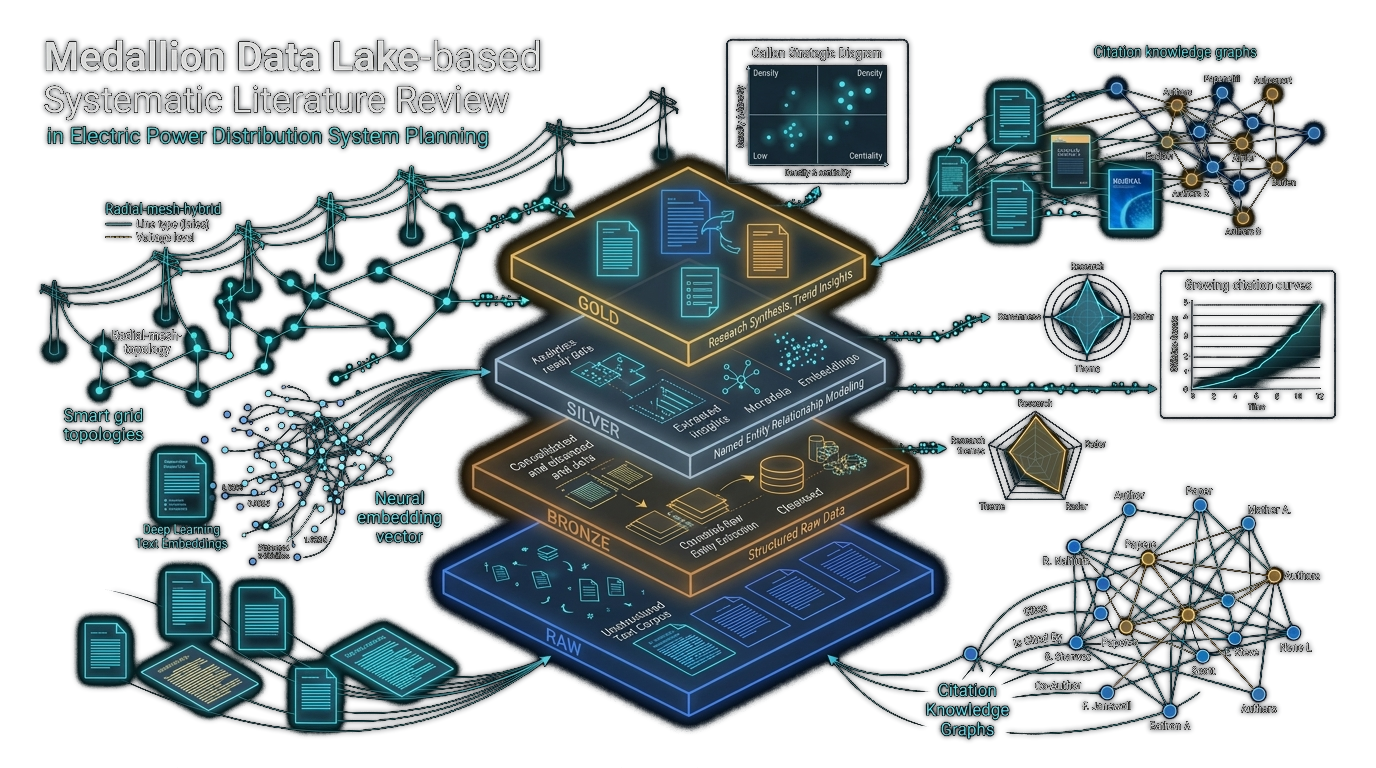
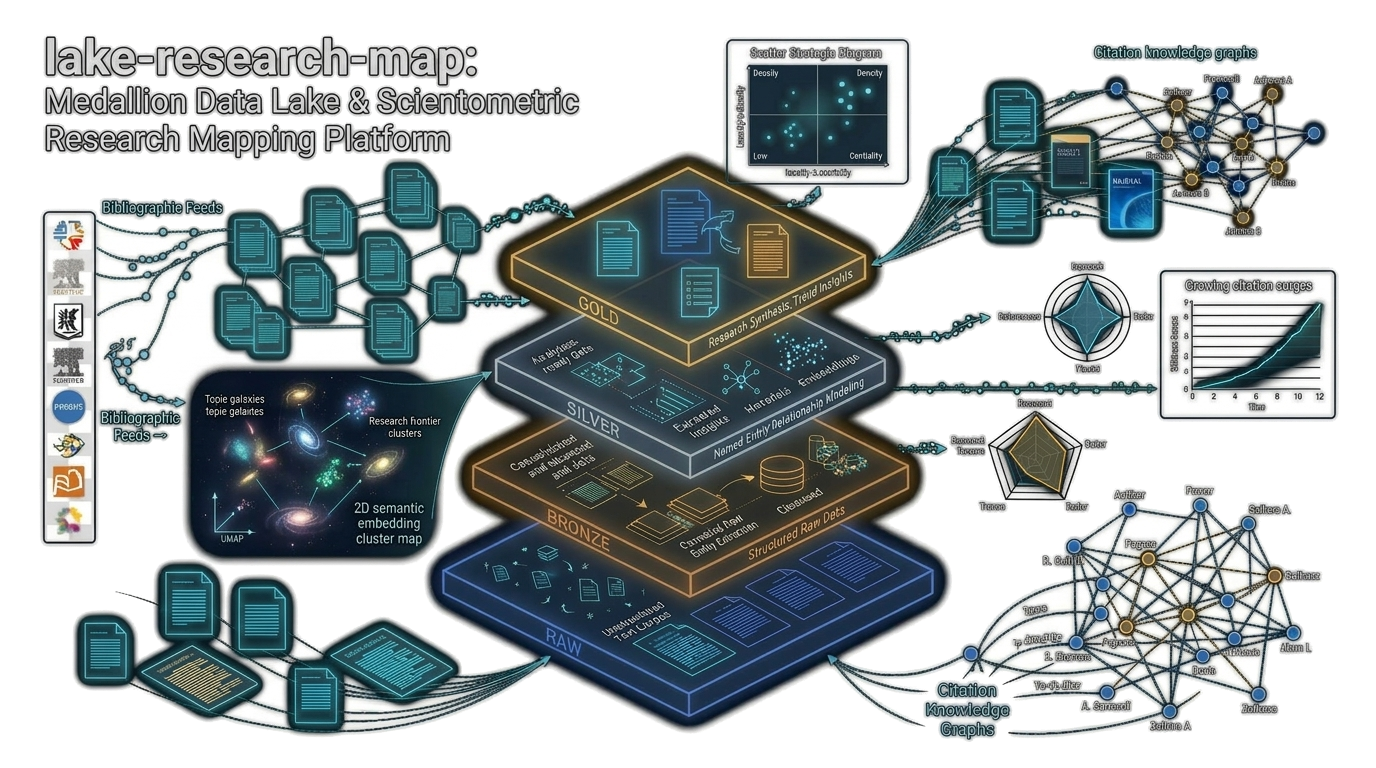
docs(assets): redesign lake_research_map_hero.png for generalized research intelligence

diff --git a/README.md b/README.md
@@ -9,7 +9,7 @@
 [![Code Style: Ruff](https://img.shields.io/endpoint?url=https://raw.githubusercontent.com/astral-sh/ruff/main/assets/badge/v2.json)](https://github.com/astral-sh/ruff)
 [![License: MIT](https://img.shields.io/badge/license-MIT-green.svg)](LICENSE)
 
-![lake-research-map: Medallion Data Lake & Scientometric Intelligence Platform for Electric Power Distribution System Planning](docs/images/lake_research_map_hero.png)
+![lake-research-map: Medallion Data Lake & Scientometric Research Mapping Platform](docs/images/lake_research_map_hero.png)
 
 `lake-research-map` is a production-grade **Medallion Data Lake**, automated ETL pipeline, and scientometric research platform engineered for a Systematic Literature Review (SLR) on:
 > **"Distribution System Planning" (Electric Power Distribution Networks)**
